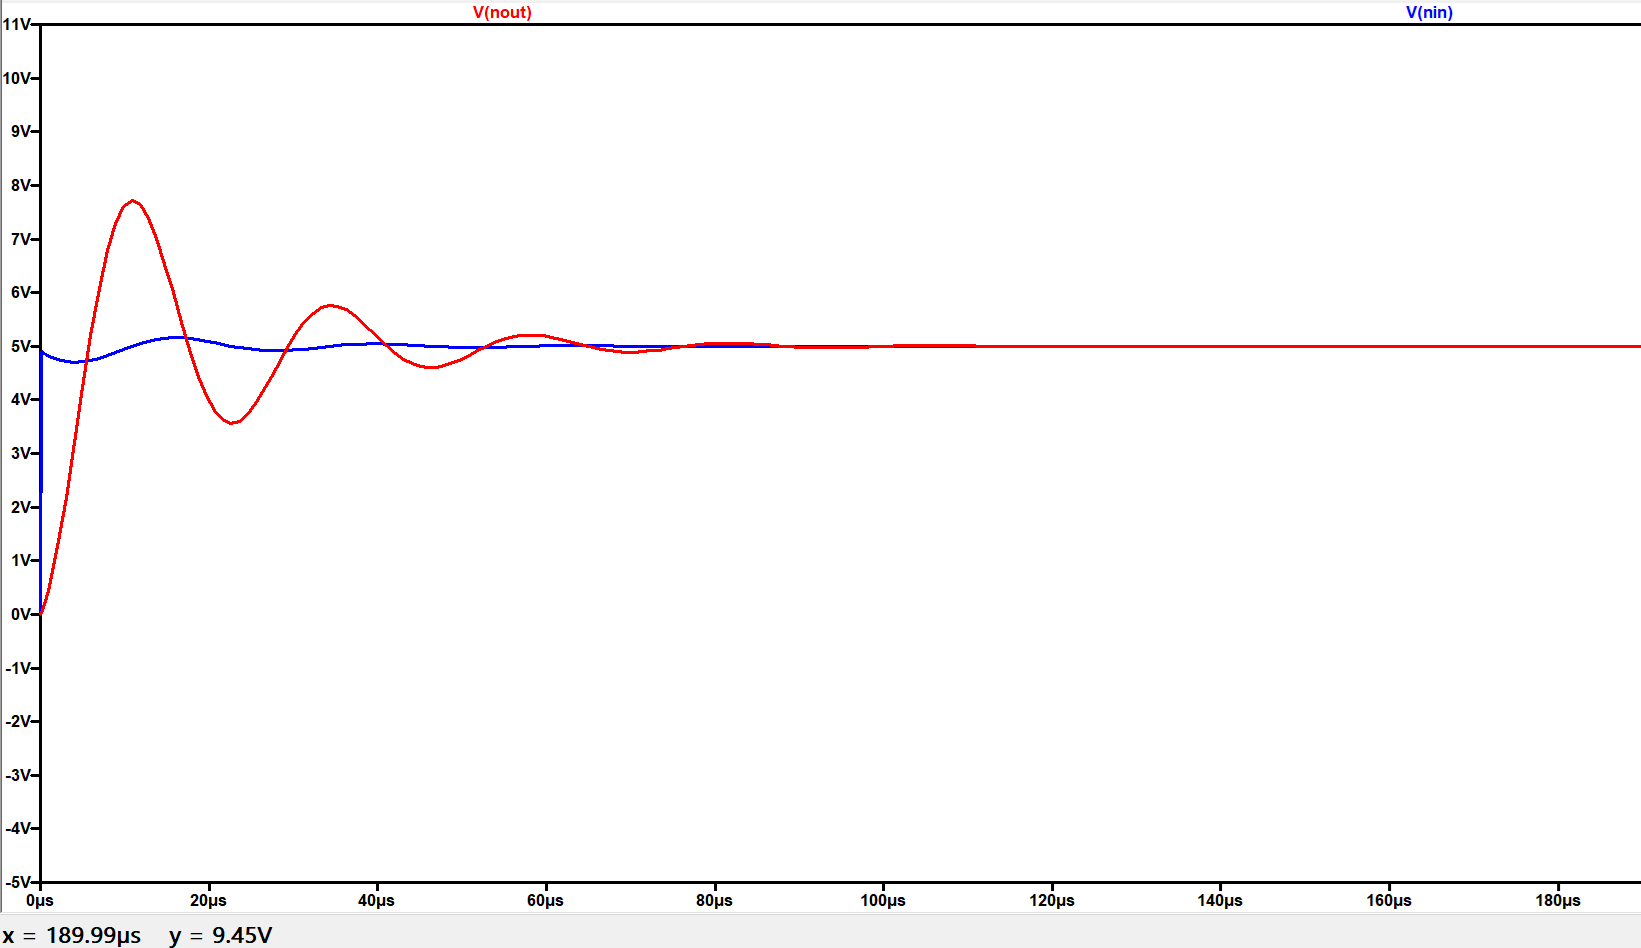
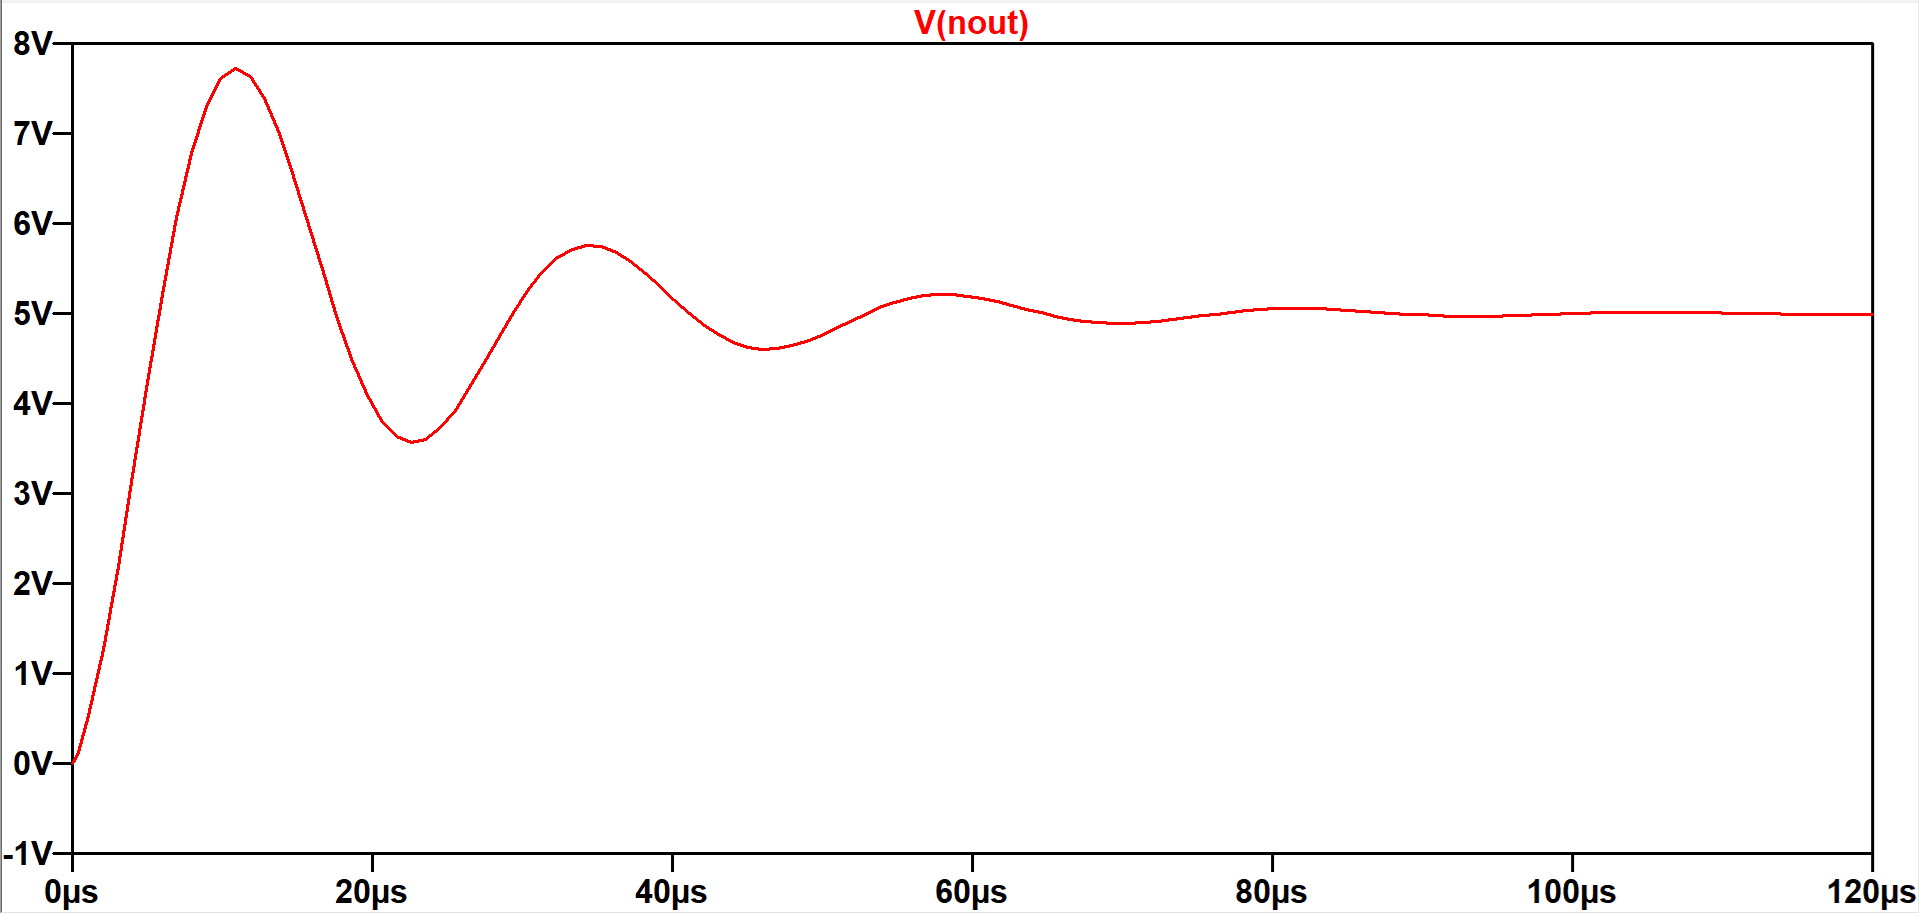
correccion del analisis, parte del opcional

diff --git a/analisis(LEI).tex b/analisis(LEI).tex
@@ -4,9 +4,9 @@
 \subsection{Análisis del circuito RL}
 El error del cálculo de $\tau$ es menor al 1\%. Este error resulta pequeño pues se han tenido en cuenta la no idealidad de los instrumentos utilizados en las simulaciones.Además, este error se encuentra dentro del error de medición de los instrumentos utilizados. Sin embargo, a la hora de realizar los cálculos se ha tenido en cuenta como el valor final de $V_{RF}$  2,40V cuando en la experiencia se midieron 2,42V. 
 
-El valor medido de la tensión de $R_F$ es menos de 1\% menor que el valor calculado. Este error resulta coherente con el error de los instrumentos utilizados. En este caso, no resulta lógico que el valor de la tensión medida sea menor que el calculado pues el $\tau$ medido resultó ser mayor al esperado. Consideramos que este efecto es causa de haber calculado $\tau$ con un pequeño error. 
+El valor medido de la tensión de $R_F$ es menos de 1\% menor que el valor calculado. Este error resulta coherente con el error de los instrumentos utilizados. En este caso, resulta coherente que el valor de la tensión medida sea mayor que el calculado pues el $\tau$ medido resultó ser mayor al esperado. Por lo tanto, consideramos que el error es a causa del valor de $\tau$ medido.
 
-Por último, el resultado que presenta una mayor diferencia con el calculado de esta parte de la experiencia es el tiempo en el que $R_F$ llega al 95\% de su valor final. Este error es aproximadamente del 5\% siendo el valor medido menor al calculado. Podemos atribuirle este error a la acumulación de errores anteriores en el cálculo de $\tau$ y también por trabajar con una precisión mayor a la que el instrumento trabaja.
+Por último, el resultado que presenta una mayor diferencia con el calculado de esta parte de la experiencia es el tiempo en el que $R_F$ llega al 95\% de su valor final. Este valor es aproximadamente un 5\% menor al calculado. Podemos atribuirle este error a la acumulación de errores anteriores en el cálculo de $\tau$ y también por trabajar con una precisión mayor a la que el instrumento trabaja.
 
 
 De estos últimos resultados se puede concluir que el circuito tardará menos tiempo que el calculado en llegar al estado estacionario y que tendrá una tensión levente mayor al esperado. A nivel general, los resultados son coherentes con los calculados.
@@ -20,7 +20,7 @@ Al aumentar la resistencia paulatinamente, se observó la disminución de estos 
 \subsubsection{Sistema en amortiguamiento crítico}
 Se buscó encontrar experimentalmente el valor de la resistencia para el cual el tiempo de llegada al equilibrio fuera mínimo. Sin embargo, en la práctica resulta complicado variar manualmente la resistencia hasta encontrar el punto exacto en el cual el sistema se encuentra críticamente amortiguado. Esto se debe a que es muy difícil distinguir entre un sistema críticamente amortiguado, un sistema sobreamortiguado con una leve diferencia entre $\omega_0$ y $\alpha$, y un sistema subamortiguado con una frecuencia de oscilación muy baja.
 
-Se varió la resistencia de forma tal que, en el osciloscopio, se observara una curva con una pendiente pronunciada y sin sobrepico visible, intentando acercarnos lo mas posible al valor de la resistencia en el que $W_0 = \alpha_0$. No obstante, esta observación no implica que se haya alcanzado el valor real que minimiza el tiempo de estabilización.
+Se varió la resistencia de forma tal que, en el osciloscopio, se observara una curva con una pendiente pronunciada y sin sobrepico visible, intentando acercarnos lo mas posible al valor de la resistencia en el que $\omega_0 = \alpha_0$. No obstante, esta observación no implica que se haya alcanzado el valor real que minimiza el tiempo de estabilización.
 
 Consecuentemente, debido a las dificultades previamente mencionadas, al contrastar el valor calculado de la resistencia con el valor medido, el error resultante fue bastante grande, llegando aproximadamente al 10\%.
 
@@ -58,47 +58,46 @@ A su vez, en el gráfico \textbf{REFERENCIAR EL GRAFICO SUB} se aprecia un perí
 
 
 \subsection{Opcional: Inductor con resistencia en paralelo}
-Al simular el mismo circuito modelando las pérdidas del inductor mediante una resistencia en paralelo, se observó que, cuanto mayor era el valor de $R_P$, más similar resultaba la respuesta a la de un circuito RLC ideal. Esto se debe a que, al aumentar $R_P$, la corriente que circula por la resistencia disminuye y, en consecuencia, la potencia disipada en dicha rama es menor.
+Al simular el mismo circuito modelando las pérdidas del inductor mediante una resistencia en paralelo, se observó que, cuanto mayor era el valor de la resistencia en paralelo al inducto ( $R_P$ ), más similar resultaba la respuesta a la de un circuito RLC ideal. Esto se debe a que, al aumentar $R_P$, la corriente que circula por la resistencia disminuye y, en consecuencia, la potencia disipada en dicha rama es menor.
 
-En cambio, al tomar valores más pequeños de $R_P$, una mayor fracción de la corriente circula por la rama resistiva en paralelo, lo que incrementa las pérdidas del sistema y atenúa el efecto inductivo ideal. Como consecuencia, la respuesta transitoria presenta un mayor amortiguamiento y una menor oscilación.
+En cambio, al tomar valores más pequeños de $R_P$, una mayor fracción de la corriente circula por la rama resistiva en paralelo, lo que incrementa las pérdidas del sistema y atenúa el efecto inductivo ideal. Como consecuencia, la respuesta transitoria presenta un mayor amortiguamiento y una menor oscilación, semejandose mas a un circuito RC ideal.
 
-La resistencia en paralelo que debería tener el modelo del inductor para reproducir la resistencia equivalente calculada se obtiene a partir de la equivalencia serie-paralelo:
+La resistencia en paralelo que debería tener el modelo del inductor para reproducir la resistencia equivalente calculada se obtiene a partir de la equivalencia con la resistencia en serie ($R_{se}$):
 
 \[
-R_P=\frac{R_s^2+(\omega L)^2}{R_s}
+R_P=\frac{R_{se}+(\omega L)^2}{R_{se}}
 \]
 
 donde
 
 \[
-R_s = 2\alpha L - R_F - R_V - R_S
-\]
-
-Por lo tanto,
-
-\[
-R_P=\frac{(2\alpha L-R_F-R_V-R_S)^2+(\omega L)^2}{2\alpha L-R_F-R_V-R_S}
+R_{se} = 2\alpha L - R_F - R_V - R_S
 \]
 
 Utilizando los valores experimentales obtenidos, se calculó un valor de $R_P \approx 2{,}5~\text{k}\Omega$.
 
-\begin{figure}[h]
+\begin{figure}[H]
 \centering
-\includegraphics[width=0.6\textwidth]{simulacion_g_RP.png}
-\caption{Grafico en el tiempo de la diferencia de potencial en la fuente ( V(nin) ) y en el capacitor ( V(nout))con $R_L$ en parlelo}
+\includegraphics[width=1\textwidth]{simulacion_g_RP.png}
+\caption{Grafico en el tiempo de la diferencia de potencial en el capacitor ( V(nout))con $R_L$ en parlelo}
 \label{fig:sim_g_RP} 
 \end{figure}
 
-\begin{figure}[h]
+\begin{figure}[H]
 \centering
-\includegraphics[width=0.6\textwidth]{sim_g_RS.png}
-\caption{Grafico en el tiempo de la diferencia de potencial en la fuente ( V(nin) ) y en el capacitor ( V(nout)) con $R_L$ en serie}
+\includegraphics[width=1\textwidth]{sim_g_RS.png}
+\caption{Grafico en el tiempo de la diferencia de potencial en el capacitor ( V(nout)) con $R_L$ en serie}
 \label{fig:sim_g_RS} 
 \end{figure}
 
-Al comparar la simulación utilizando un modelo de pérdidas en serie con aquella que emplea una resistencia en paralelo, se observa:
+Al comparar la simulación utilizando un modelo de pérdidas en serie con aquella que emplea una resistencia en paralelo, se observa que en ambos casos la respuesta mantiene un comportamiento subamortiguado, con presencia de sobrepico y oscilaciones decrecientes. Sin embargo se pudieron encontrar algunas discrepancias entre ambos modelos, aunque no sean simplemente perceptibles a simple vista en los graficos.
 
-En ambos casos, la respuesta mantiene un comportamiento subamortiguado, con presencia de sobrepico y oscilaciones decrecientes. Sin embargo, al utilizar una resistencia en paralelo, se observa una ligera reducción en la amplitud de las oscilaciones y un decaimiento más pronunciado en los primeros ciclos, lo que indica una disipación de energía más efectiva en ese rango temporal.
+Inicialmnete, se observo un leve aumento en la amplitud del sobrepico, siendo $V_C$ del sobrepico 7,71 V para el modelo con $R_P$ y 7,57 V para el modelo con resistencia serie. Este valor resulto más próximo al medido experimentalmente que fue de 7,78 V.
 
-Por otro lado, el modelo con resistencia en serie tiende a preservar mejor la forma global de la respuesta oscilatoria, manteniendo una relación más directa con el modelo teórico de un RLC serie ideal con pérdidas distribuidas uniformemente.
+Asimismo, el tiempo de sobrepico también presenta una mejor concordancia con el valor experimental al utilizar el modelo con resistencia en paralelo. En la simulación, se obtuvo un tiempo de 10,86 $\mu s$ con $R_P$, frente a 11,88 $\mu s$ con resistencia en serie, siendo el valor medido de 10,08 $\mu s$.
 
+Estas diferencias indican que el modelo con resistencia en paralelo logra representar con mayor precisión las pérdidas reales del inductor en el rango de frecuencias asociado a la respuesta transitoria. Esto puede deberse a que dicho modelo captura de forma más adecuada ciertos efectos no ideales del inductor, como pérdidas dependientes de la frecuencia o del comportamiento del núcleo magnético, como la histéresis previamente mensionada.
+
+Por otro lado, el modelo con resistencia en serie tiende a preservar mejor la estructura teórica de un circuito RLC ideal, pero no logra reproducir con la misma precisión los valores experimentales obtenidos.
+
+En consecuencia, si bien ambos modelos permiten representar el amortiguamiento del sistema, el modelo con resistencia en paralelo resulta más adecuado para aproximar el comportamiento real del circuito en este caso particular.
